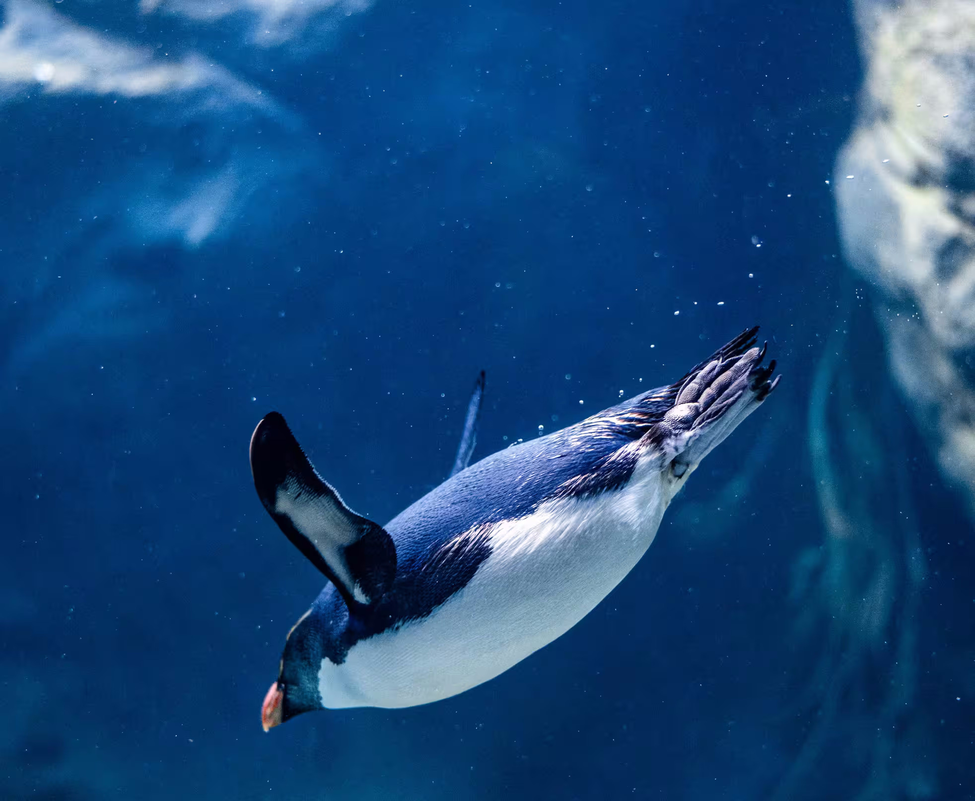
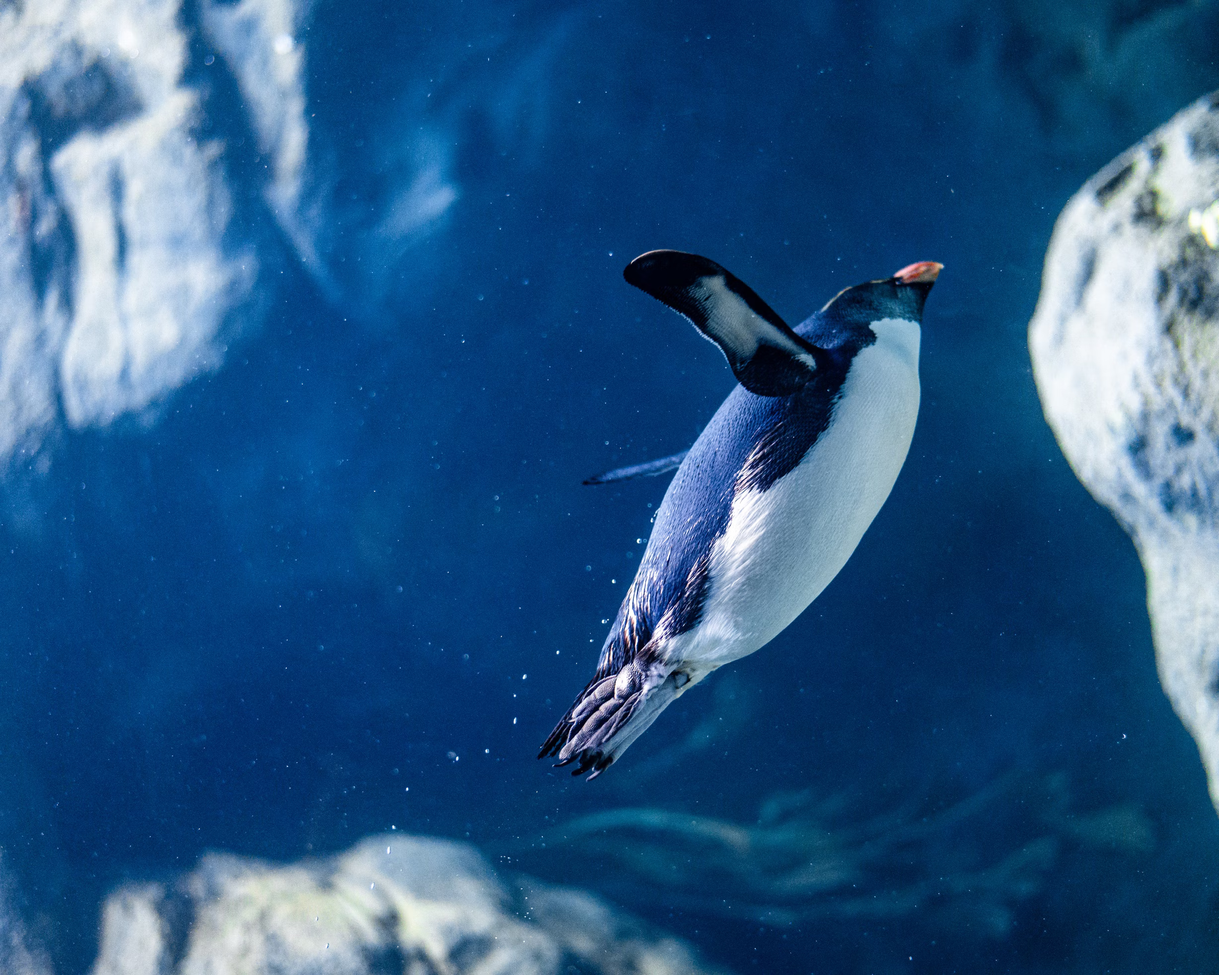
Fix backdrop

diff --git a/index.html b/index.html
@@ -34,8 +34,9 @@
       Reveal.initialize({
         hash: true,
         parallaxBackgroundImage: 'media/manchot.jpg',
-        parallaxBackgroundSize: '1964px 1614px',
-        parallaxBackgroundVertical: 60,
+        parallaxBackgroundSize: '2455px 1964px',
+        parallaxBackgroundHorizontal: 70,
+        parallaxBackgroundVertical: 80,
         slideNumber: true,
         // view: 'scroll',
         scrollProgress: false,

diff --git a/slides.md b/slides.md
@@ -334,8 +334,6 @@ Notes:
 
 ![fourmis](media/fourmis-annote.jpg)<!-- .element: class="fragment" style="height: 60vh" -->
 
---
-
 ---
 
 # Les solutions
@@ -383,15 +381,13 @@ https://framalibre.org/
 
 --
 
-### Pour Chaque logiciel privateur plus d'une alternative libre
-
 <!-- .slide: data-background-iframe="https://distrowatch.com/?language=FR"  data-preload -->
 
 Système d'exploitation = OS = Operating System
 
 Windows vs les linux
 
-(ubuntu, debian, gentoo, slackware, suze, ... )
+(Ubuntu, Debian, Gentoo, Slackware, Suse, ... )
 
 --
 
